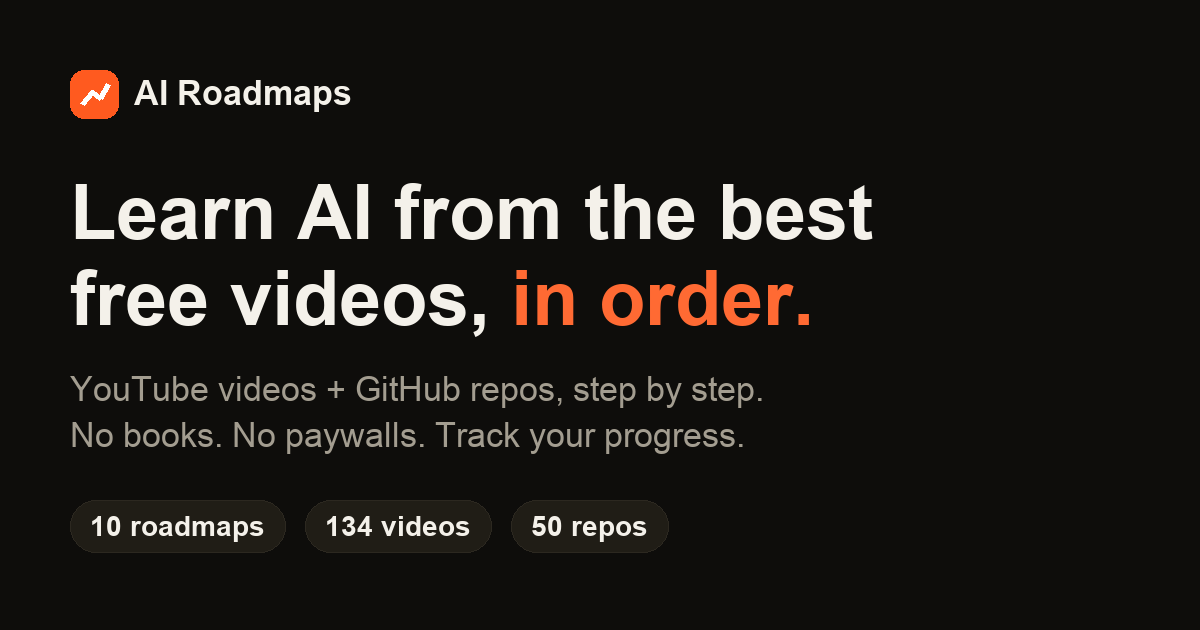
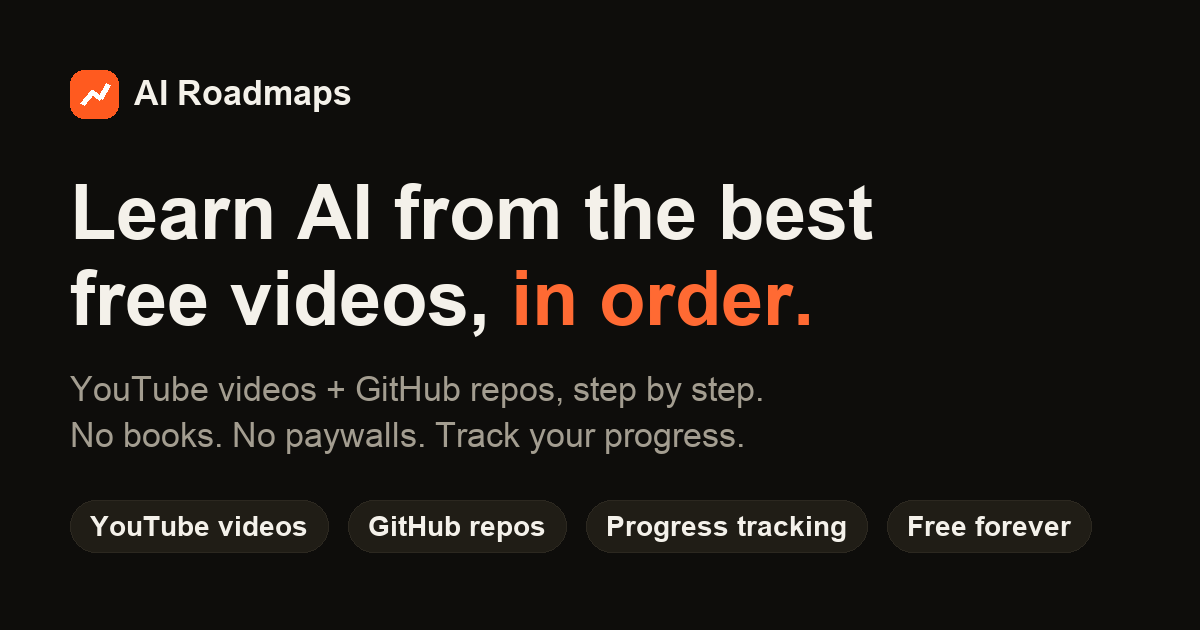
Add YouTube search helper; make social image count-free

Changed region(s): [[0.0617, 0.8143, 0.7092, 0.8746], [0.74, 0.8143, 0.8942, 0.8746]]

diff --git a/scripts/youtube_search.py b/scripts/youtube_search.py
@@ -1,0 +1,54 @@
+"""Search YouTube from the command line, for picking roadmap videos.
+
+    python3 scripts/youtube_search.py "query one || query two" [results per query]
+
+Prints: video ID | title | channel | length | views | age
+"""
+import json
+import re
+import subprocess
+import sys
+import urllib.parse
+
+UA = "Mozilla/5.0 (Macintosh; Intel Mac OS X 14_0) AppleWebKit/537.36 (KHTML, like Gecko) Chrome/126 Safari/537.36"
+
+
+def fetch(url):
+    return subprocess.run(["curl", "-sL", "--max-time", "20", "-A", UA, "-H", "Accept-Language: en-US", url],
+                          capture_output=True, text=True).stdout
+
+
+def walk(o, out):
+    if isinstance(o, dict):
+        if "videoRenderer" in o:
+            v = o["videoRenderer"]
+            out.append({
+                "id": v.get("videoId"),
+                "title": "".join(r.get("text", "") for r in v.get("title", {}).get("runs", [])),
+                "channel": "".join(r.get("text", "") for r in v.get("ownerText", {}).get("runs", [])),
+                "length": v.get("lengthText", {}).get("simpleText", ""),
+                "views": v.get("viewCountText", {}).get("simpleText", ""),
+                "age": v.get("publishedTimeText", {}).get("simpleText", ""),
+            })
+        for x in o.values():
+            walk(x, out)
+    elif isinstance(o, list):
+        for x in o:
+            walk(x, out)
+
+
+def search(q, n=6):
+    h = fetch("https://www.youtube.com/results?search_query=" + urllib.parse.quote(q))
+    m = re.search(r"var ytInitialData = (\{.*?\});</script>", h)
+    out = []
+    if m:
+        walk(json.loads(m.group(1)), out)
+    return out[:n]
+
+
+if __name__ == "__main__":
+    n = int(sys.argv[2]) if len(sys.argv) > 2 else 6
+    for q in sys.argv[1].split("||"):
+        print(f"## {q.strip()}")
+        for v in search(q.strip(), n):
+            print(f"  {v['id']} | {v['title'][:80]} | {v['channel']} | {v['length']} | {v['views']} | {v['age']}")
